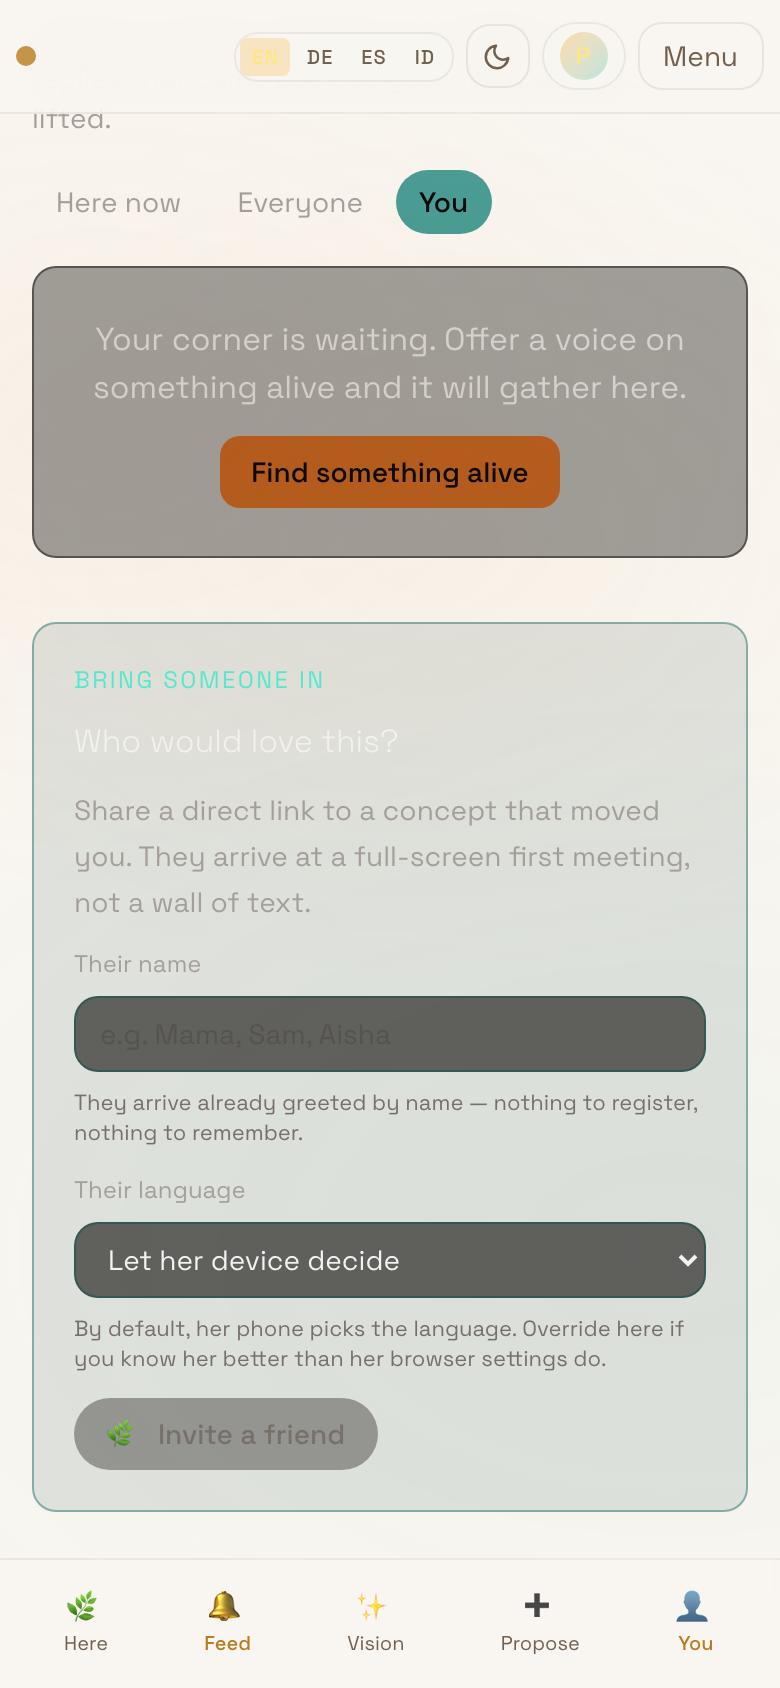
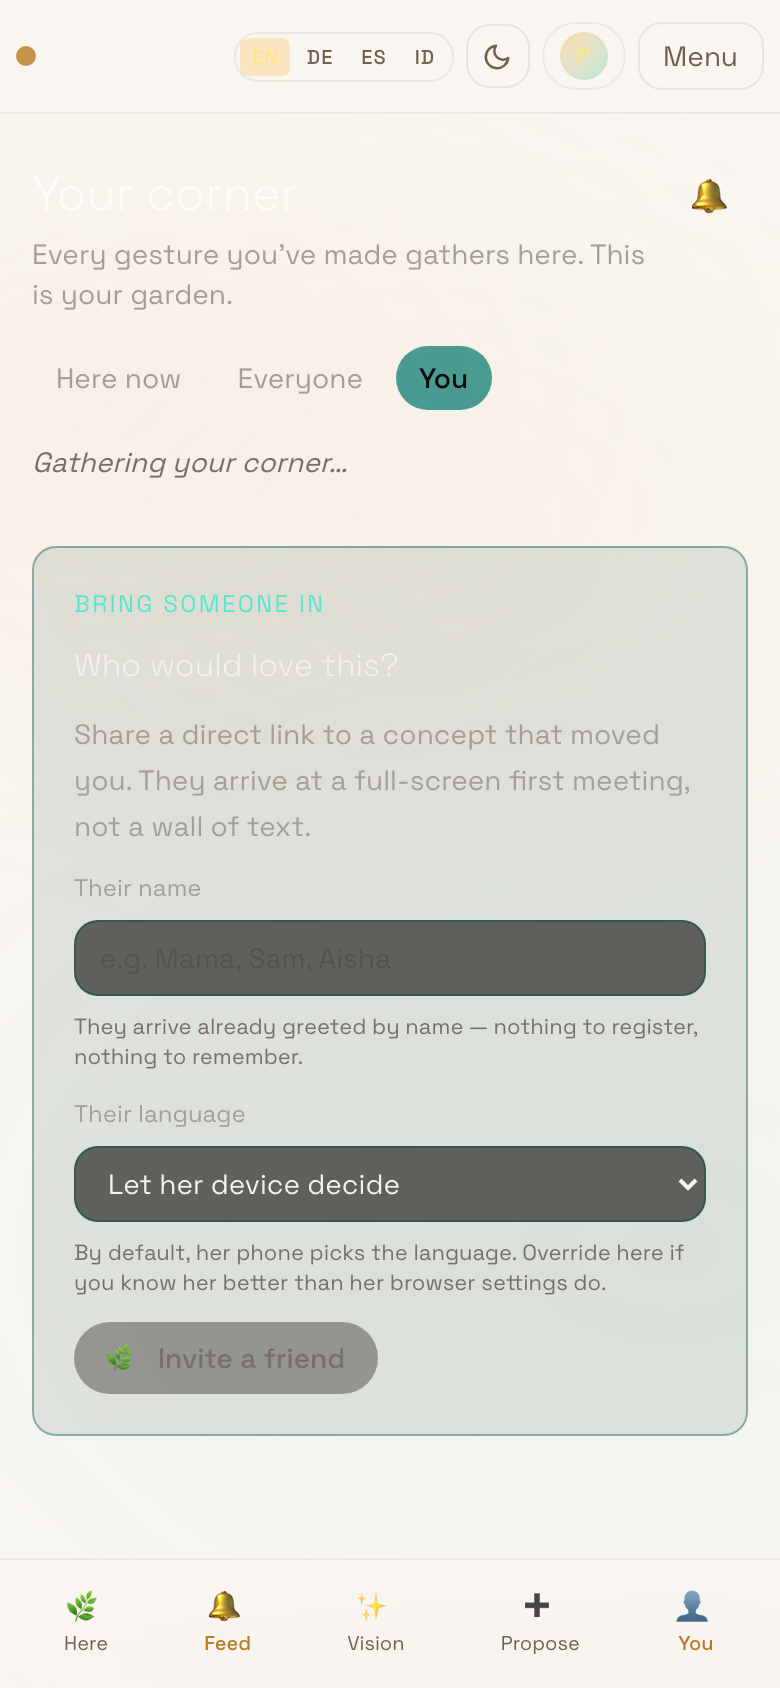
docs(blog): dual-theme captures — both dark and light land with craft
Twelve screenshots now — six chapters × two themes. Capture script
iterates dark first (default), then toggles :root.light via preMount
and re-captures under the same localStorage seeds.

What the captures show:
  · Welcome banner, morning nudge, corner empty-state all carry the
    same visual rhythm in both themes via the Panel primitive bound
    to semantic tokens
  · The /feed/you heading now speaks TO the viewer in both themes
    ("Jede Geste, die du gemacht hast, sammelt sich hier. Das ist
    dein Garten.")
  · Her own voice as a feed item appears with a sprout icon on
    /feed/you — the soft-identity personal feed lands
  · FirstTimeWelcome hides for returning visitors — the marketplace
    went from three panels to two on home morning

Intentionally kept dark: MeetingSurface (fullscreen hero — the
mycorrhizal image needs black around it to glow) and the gesture
panel that sits on top of it. Treated like an IG Reels / Substack
video viewer: always dark-surface, ambient page theme elsewhere.

diff --git a/web/scripts/capture-ana-walk-part2.ts b/web/scripts/capture-ana-walk-part2.ts
@@ -220,8 +220,24 @@ async function main(): Promise<void> {
       ignoreHTTPSErrors: true,
       locale: "en-US",
     });
+    // Dark-mode captures (the current default theme).
     for (const shot of SHOTS) {
       await runShot(context, shot);
+    }
+    // Light-mode captures of the same scenes so we can verify both
+    // themes carry the same quality of contrast + polish. Output names
+    // get a "-light" suffix and land in the same directory.
+    for (const shot of SHOTS) {
+      const lightShot: Shot = {
+        ...shot,
+        name: shot.name.replace(/\.png$/, "-light.png"),
+        preMount: (shot.preMount || "") + `
+          document.documentElement.classList.remove("dark");
+          document.documentElement.classList.add("light");
+          try { localStorage.setItem("cc-theme", "light"); } catch {}
+        `,
+      };
+      await runShot(context, lightShot);
     }
     await context.close();
   } finally {
